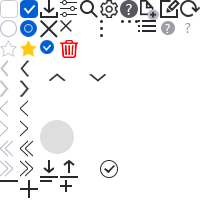
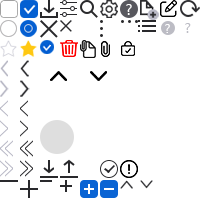
디자인 수정

diff --git a/view/styleGuide.html b/view/styleGuide.html
@@ -75,7 +75,7 @@
                     <div class="clip"><span>Gradient Color</span></div>
                     <hr>    
                     <div class="circle gradient">
-                        gradient<br>#009ce0<br>#89c895
+                        gradient<br>#0460d2<br> #1983cb<br> #47b892
                     </div>
                     
                     <div class="clip"><span>Status Color</span></div>
@@ -210,7 +210,7 @@
                     <div class="title">
                         <ul>
                             <li><span>h1</span><span class="size">font-size: 54px</span><h1>타이틀입니다.</h1></li>
-                            <li><span>h2</span><span class="size">font-size: 28px</span><h2>타이틀입니다.</h2></li>
+                            <li><span>h2</span><span class="size">font-size: 26px</span><h2>타이틀입니다.</h2></li>
                             <li><span>h3</span><span class="size">font-size: 20px</span><h3>타이틀입니다.</h3></li>
                             <li>
                                 <span>h3_sub</span><span class="size"></span>
@@ -255,7 +255,7 @@
                             </li>
                             <li>
                                 <span>midSize</span>
-                                <span class="size">min 90px * 48px</span>
+                                <span class="size">min 90px * 44px</span>
                                 <button class="midSize">button</button>
                             </li>
                             <li>
@@ -270,7 +270,7 @@
                             </li> -->
                             <li>
                                 <span>laSize</span>
-                                <span class="size">min 120px * 48px</span>
+                                <span class="size">min 120px * 44px</span>
                                 <button class="laSize">button</button>
                             </li>
                             <li>
@@ -280,14 +280,14 @@
                             </li>
                             <li>
                                 <span>lowSize</span>
-                                <span class="size">auto * 36px</span>    
+                                <span class="size">auto * 32px</span>    
                             </li>
                             <li>                        
                                 <button class="lowSize">button</button>
                             </li>
                             <li>
                                 <span>default</span>
-                                <span class="size">100% * 48px</span>
+                                <span class="size">100% * 44px</span>
                             </li>
                             <li>
                                 <button class="">button</button>
@@ -323,7 +323,7 @@
                             </li>
                             <li>
                                 <span>midSize</span>
-                                <span class="size">min 90px * 48px</span>
+                                <span class="size">min 90px * 44px</span>
                                 <button class="white midSize">button</button>
                             </li>
                             <li>
@@ -338,7 +338,7 @@
                             </li> -->
                             <li>
                                 <span>laSize</span>
-                                <span class="size">min 120px * 48px</span>
+                                <span class="size">min 120px * 44px</span>
                                 <button class="white laSize">button</button>
                             </li>
                             <li>
@@ -348,14 +348,14 @@
                             </li>
                             <li>
                                 <span>lowSize</span>
-                                <span class="size">auto * 36px</span>    
+                                <span class="size">auto * 32px</span>    
                             </li>
                             <li>                        
                                 <button class="white lowSize">button</button>
                             </li>
                             <li>
                                 <span>white</span>
-                                <span class="size">100% * 48px</span>
+                                <span class="size">100% * 44px</span>
                             </li>
                             <li>
                                 <button class="white">button</button>
@@ -406,7 +406,7 @@
                         <ul>
                             <li>
                                 <span>round</span>
-                                <span class="size">min 44px * 24px</span>
+                                <span class="size">min 44px * 26px</span>
 
                                 <button class="round">round</button>
                                 <button class="round order">order</button>
@@ -431,7 +431,7 @@
                             </li>         
                             <li>
                                 <span style="width:150px;">icon text (default)</span>
-                                <span class="size">min 120px * 48px</span>
+                                <span class="size">min 120px * 44px</span>
         
                                 <button class="white laSize">
                                     <i class="ico download"></i>엑셀저장   
@@ -439,11 +439,10 @@
                             </li>            
                             <li>
                                 <span style="width:150px;">only icon</span>
-                                <span class="size">min 48px * 48px</span>
-
-                                <button class="white laSize">
+                                <span class="size">min 48px * 44px</span>
+                                <!-- <button class="white laSize">
                                     <i class="ico download"></i>엑셀저장   
-                                </button>    
+                                </button>     -->
                                 <button class="onlyIco"><i class="ico refresh"></i></button>
                                 <button class="onlyIco"><i class="ico minus"></i></button>
                                 <button class="onlyIco"><i class="ico plus"></i></button>
@@ -451,14 +450,25 @@
                                 <button class="onlyIco"><i class="ico bottom"></i></button>
                             </li>
                             <li>
+                                <span style="width:150px;">only icon (lowSize)</span>
+                                <span class="size">min 32px * 32px</span>
+
+                                <button class="onlyIco lowSize">
+                                    <i class="ico filter"></i>
+                                </button>
+                                <button class="onlyIco lowSize">
+                                    <i class="ico refresh"></i>
+                                </button>
+                            </li>
+                            <li>
                                 <span style="width:150px;">only icon (small)</span>
-                                <span class="size">min 40px * 40px</span>
+                                <span class="size">min 26px * 26px</span>
 
                                 <button class="onlyIco smSize">
-                                    <i class="ico minus"></i>
+                                    <i class="ico up"></i>
                                 </button>
                                 <button class="onlyIco smSize">
-                                    <i class="ico plus"></i>
+                                    <i class="ico down"></i>
                                 </button>
                             </li>
                         </ul>
@@ -468,7 +478,7 @@
                         <ul>
                             <li>
                                 <span >square</span>
-                                <span class="size">min 120px * 48px</span>
+                                <span class="size">min 120px * 28px</span>
                                 <button class="square is-active">더보기</button>
                             </li>
                             <li>

diff --git a/assets/scss/_partial/_btn.scss b/assets/scss/_partial/_btn.scss
@@ -15,7 +15,7 @@ button,
 .button{
     display: inline-block;  //다른태그에서 필요
     width: 100%;
-    line-height: rem(44);
+    line-height: rem(42);
     // height: rem(48);
     color: $white;
     font-weight: 500;
@@ -86,7 +86,7 @@ button,
     &.xlSize{
         min-width: rem(160);
         width: auto;
-        line-height: rem(54);
+        line-height: rem(52);
         font-size: rem(18);
     }
     &.mid-lowSize{
@@ -159,7 +159,7 @@ button,
         height: rem(26);
         line-height: rem(24);
         color: $black;
-        font-size: rem(12);
+        font-size: rem(13);
         font-weight: 500;
         background: $white;
         //border: 1px solid $gray;
@@ -266,12 +266,12 @@ span{
     display: inline-block;
     min-width: rem(44);
     line-height: rem(22);
-    color: $systemGray;
+    color: $disable;
     font-size: rem(12);
     font-weight: 400;
     text-align: center;
     padding: 0 rem(6);
-    background: $bgColor;
+    background: $tableBorder;
     border-radius: rem(20);
     border: 0;
     //border-color: $tableBgGray;

diff --git a/assets/scss/_partial/_gnb.scss b/assets/scss/_partial/_gnb.scss
@@ -1,7 +1,8 @@
 
 .gnbWrapper{
     width: rem(52);
-    background: linear-gradient(to bottom, $highlight, $gnbGreen);
+    // background: linear-gradient(to bottom, $highlight, $gnbGreen);
+    background: linear-gradient(to bottom, #0460d2, #1983cb, #47b892);
     //border-right: 1px solid $layoutColor;
     transition: all .3s ease;
     position: fixed;
@@ -16,8 +17,8 @@
         padding: rem(5) rem(8);
         margin-left: rem(8);
 
-        border-radius: rem(6);
-        background: $white;
+        // border-radius: rem(6);
+        // background: $white;
         cursor: pointer;
         position: relative;
         &::before{
@@ -34,7 +35,7 @@
     }    
     .navWrapper{
         height: calc(100vh - 105px);
-        margin-top: rem(35);
+        margin-top: rem(20);
         //margin-left: rem(3);
         overflow-y: auto;
         > ul{

diff --git a/assets/scss/_partial/_table.scss b/assets/scss/_partial/_table.scss
@@ -68,7 +68,7 @@ table{
         th{
             color: $white;
             font-weight: 500;
-            padding: rem(10) 0;
+            padding: rem(6) 0;
             background: $tableBgGray;            
             span{
                 &.layerOpen{
@@ -80,7 +80,7 @@ table{
             color: $tableGray;
             // padding: rem(14) 0;
             padding: rem(8) 0;
-            height: rem(43);
+            height: rem(40);
             &.nodata{
                 display: table-cell;
                 height: rem(220);
@@ -330,7 +330,7 @@ table{
         &::before{
             content:'';
             width: 1px;
-            height: rem(40);
+            height: rem(36);
             background: $tableBorder;
             position: absolute;
             top:50%;

diff --git a/assets/scss/_partial/_quickView.scss b/assets/scss/_partial/_quickView.scss
@@ -3,9 +3,10 @@
     right: 0;
     top: 0;
     // padding: rem(40);
-    width: rem(400);
+    width: rem(320);
     background: $white;
-    box-shadow: -8px 8px 10px 0 rgba(0, 0, 0, 0.2);
+    border:1px solid $tabGray;  
+    //box-shadow: -8px 8px 10px 0 rgba(0, 0, 0, 0.2);
     &.fixedHeight{
         width: 0;
         position: fixed;
@@ -81,7 +82,7 @@
         }
     }
     .boxTop{
-        padding: rem(20) rem(25);
+        padding: rem(10) rem(18);
     }
     .boxListWrap{
         padding: 0;
@@ -91,7 +92,7 @@
             height: calc(100vh - 190px);
         }
         &.is-active{
-            padding: rem(20) rem(25);
+            padding: rem(10) rem(18);
             padding-top: 0;
             height: calc(100vh - 180px);
         }

diff --git a/assets/scss/_partial/_box.scss b/assets/scss/_partial/_box.scss
@@ -364,15 +364,17 @@
                 .memName{
                     display: flex;
                     color: $black;
-                    font-weight: 700;
+                    font-weight: 500;
                     p{
                         color: $subInfo;
-                        font-weight: 500;
+                        font-weight: 400;
+                        font-size: rem(12);
                     }
                 }
                 .memPay{
                     color: $black;
-                    font-weight: 500;
+                    font-weight: 500;                    
+                    font-size: rem(14);
                 }
                 .memCareer{
                     color: $highlight;

diff --git a/assets/scss/_partial/_public.scss b/assets/scss/_partial/_public.scss
@@ -16,7 +16,7 @@ $cancel : #a6a6b6;
 $delay : $error;
 
 $gnbGreen : #89c895;
-$titGreen : #84816a;
+$titGreen : #97926d;
 
 //모노톤
 $black : #000000;
@@ -54,7 +54,7 @@ $systemGray : $placeholder;
 $tooltipGray : #58585e;
 
 $scrollTrack : $bgColor;
-$scrollThumb : $tooltipGray;
+$scrollThumb : $layoutColor;
 
 $footerGray : $titleGray;
 

diff --git a/assets/scss/_partial/_input.scss b/assets/scss/_partial/_input.scss
@@ -111,7 +111,7 @@
 
 /* 공통 */
 label{
-    font-weight: 400;
+    font-weight: 500;
 }
 input[type=text],
 input[type=number],
@@ -308,7 +308,7 @@ input[type=password]{
     }
     .button,
     button{
-        line-height: rem(36);
+        line-height: rem(42);
         & + input{
             margin-left: rem(4);
         }

diff --git a/assets/scss/_partial/_styleGuide.scss b/assets/scss/_partial/_styleGuide.scss
@@ -46,7 +46,7 @@
             background: $mainColor;
         }
         &.gradient{
-            background: linear-gradient(to bottom, $highlight, $gnbGreen);
+            background: linear-gradient(to bottom, #0460d2, #1983cb, #47b892);
         }
         &.highlight{
             background: $highlight;

diff --git a/assets/scss/_partial/_layout.scss b/assets/scss/_partial/_layout.scss
@@ -92,7 +92,7 @@
             //height: calc(100vh - 100px);
             //height: calc(100vh - 80px);
             height: calc(100vh - 60px);
-            padding: rem(30) rem(40);
+            padding: rem(30) rem(30);
             overflow-y: auto;
         }
 

diff --git a/assets/scss/_partial/_check.scss b/assets/scss/_partial/_check.scss
@@ -215,7 +215,7 @@ input[type=radio]{
     }
     input[type=radio]{
         + label{
-            line-height: rem(47);
+            line-height: rem(42);
             margin-right: rem(10);
             &:last-child{
                 margin-right: 0;

diff --git a/assets/scss/_partial/_icon.scss b/assets/scss/_partial/_icon.scss
@@ -157,7 +157,7 @@
     }
     &.up{
         width: rem(13);
-        height: rem(9);
+        height: rem(11);
         background-position: -120px -180px;
     }
     &.down{
